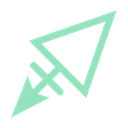
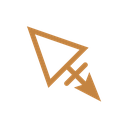
Cursor: iron-gold arrow + hover-glow halo, day/night toggle excepted
Switched from the mint source to the iron-gold flipped variant
(crocus_of_iron_soft_gold_flipped_smaller.png). The mint source PNG
is removed since it's no longer in use.

Cursor sizes regenerated from the new source via Pillow LANCZOS:
  cursor-32.png   — primary; sharp at native resolution
  cursor-64.png   — retina fallback
  cursor-128.png  — high-DPI display fallback

Glow variants generated by taking the arrow's alpha channel,
Gaussian-blurring it (radius = size/9), tinting honey #e8b860, and
compositing under the original. The result is a soft warm halo
around the arrow rather than a system pointer flip — the arrow keeps
its shape on hover, just gains an edge-glow.

Application in style.css:
  *, *::before, *::after        → cursor-32.png at hotspot (24, 24)
  a, button, [role="button"],
    summary, label[for]         → cursor-glow-32.png same hotspot
  .theme-toggle (the exception) → system pointer
  input, textarea, etc.         → text I-beam

Hotspot (24, 24) lands on the arrow tip in the lower-right of the 32px
canvas (the arrow's tip pixel in the rendered image, computed from the
alpha bounds).

Changed region(s): [[0.0625, 0.0625, 0.9375, 0.9375]]

diff --git a/style.css b/style.css
@@ -103,11 +103,21 @@ html {
 }
 
 /* ── SITE CURSOR ─────────────────────────────────────
-   A mint-iron arrow with a crossbar. Hotspot at the
-   tip in the lower-left. Falls back to system cursor
-   if the image fails. Text inputs keep the I-beam. */
+   Iron-gold arrow with crossbar. Hotspot at the tip
+   in the lower-right (24, 24 in the 32px canvas).
+   Hover over any clickable element gets the same
+   arrow with a soft warm-honey halo — *not* the
+   system gloved-hand pointer. Text inputs keep the
+   I-beam. The day/night toggle is the lone exception:
+   it does get the system pointer. */
 *, *::before, *::after {
-    cursor: url('cursor-64.png') 8 56, auto;
+    cursor: url('cursor-32.png') 24 24, auto;
+}
+a, button, [role="button"], summary, label[for] {
+    cursor: url('cursor-glow-32.png') 24 24, pointer;
+}
+.theme-toggle, .theme-toggle * {
+    cursor: pointer;
 }
 input, textarea, [contenteditable] {
     cursor: text;
